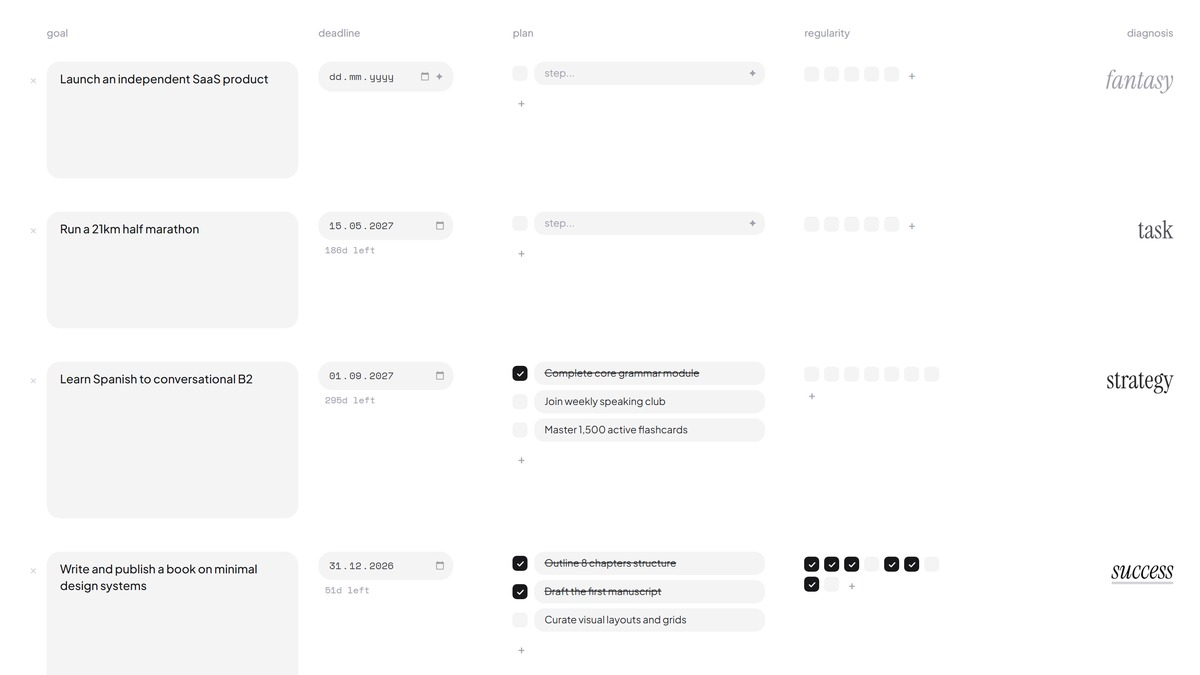
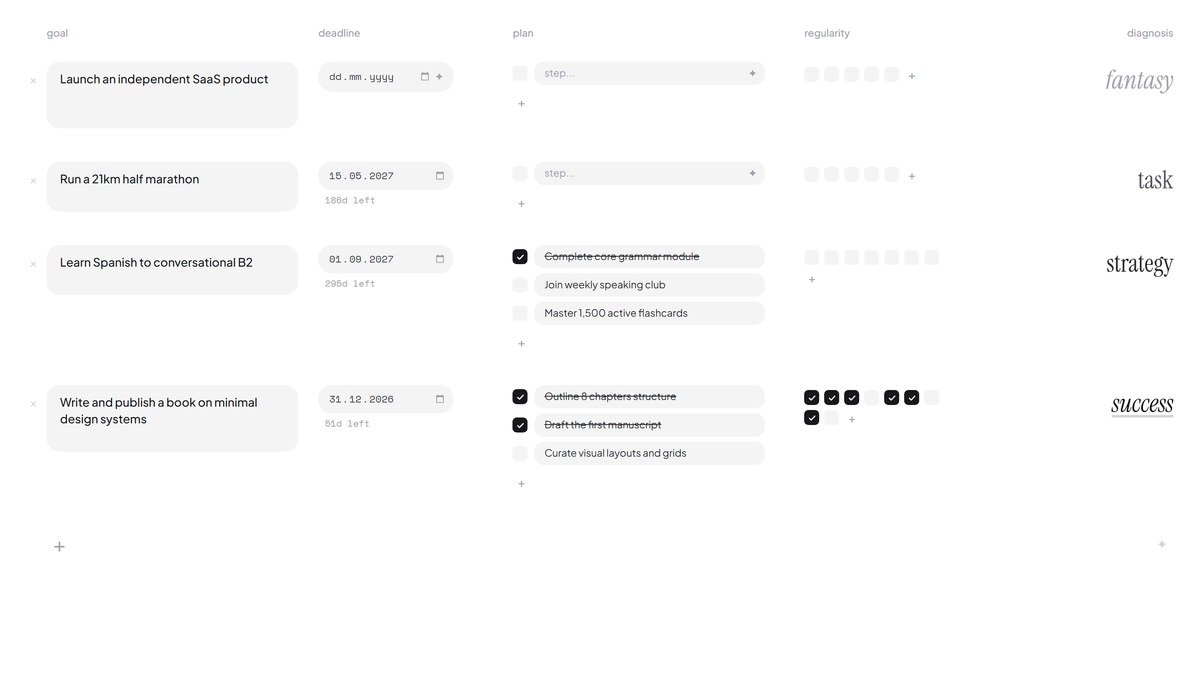
fix(plain): fix goal container auto-height and reduce screenshot set to 2

diff --git a/src/lib/projects-data.ts b/src/lib/projects-data.ts
@@ -566,10 +566,7 @@ export const SHOWCASE_PROJECTS: ProjectDetail[] = [
     aspectRatio: "16/9",
     screenshots: [
       "/projects/goal-classifier/01-workspace-hero.png",
-      "/projects/goal-classifier/02-four-dimensions-breakdown.png",
-      "/projects/goal-classifier/03-heuristic-diagnosis-matrix.png",
-      "/projects/goal-classifier/04-encrypted-byok-ai-modal.png",
-      "/projects/goal-classifier/05-actionable-execution-cockpit.png",
+      "/projects/goal-classifier/02-encrypted-byok-ai-modal.png",
     ],
     visualizer: {
       heroTitle: "GOAL_CLASSIFIER_EXECUTION_ENGINE",
